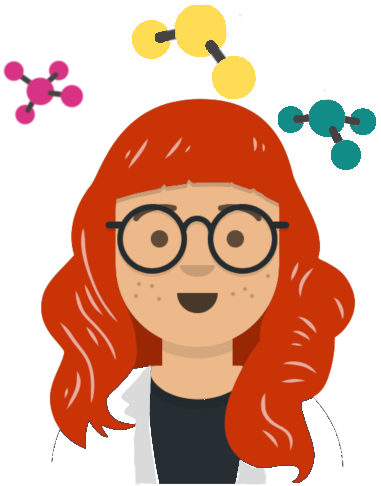
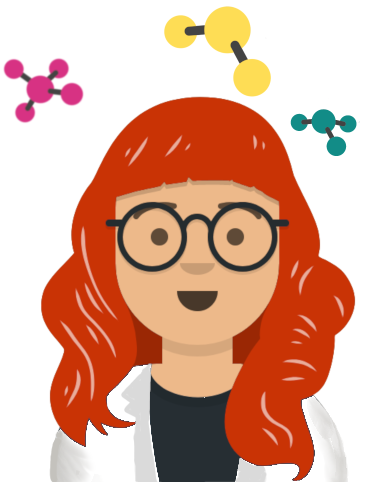
front end done

diff --git a/public/stylesheets/style.css b/public/stylesheets/style.css
@@ -1,6 +1,6 @@
 .everything {
   display: grid;
-  grid-template-rows: 60px 40px 525px 40px 480px 40px 170px 40px 280px;
+  grid-template-rows: 60px 40px 525px 40px 520px 40px 150px 40px 280px;
   grid-template-columns: 20% 30% 30% 20%; /* 120px auto auto 120px; */
 }
 body {
@@ -16,7 +16,7 @@ body {
   font-size: 25px;
 }
 .scipic {
-  padding: 32px 50px 0;
+  padding: 70px 50px 0;
 }
 .centered-pic {
   align-items: center;
